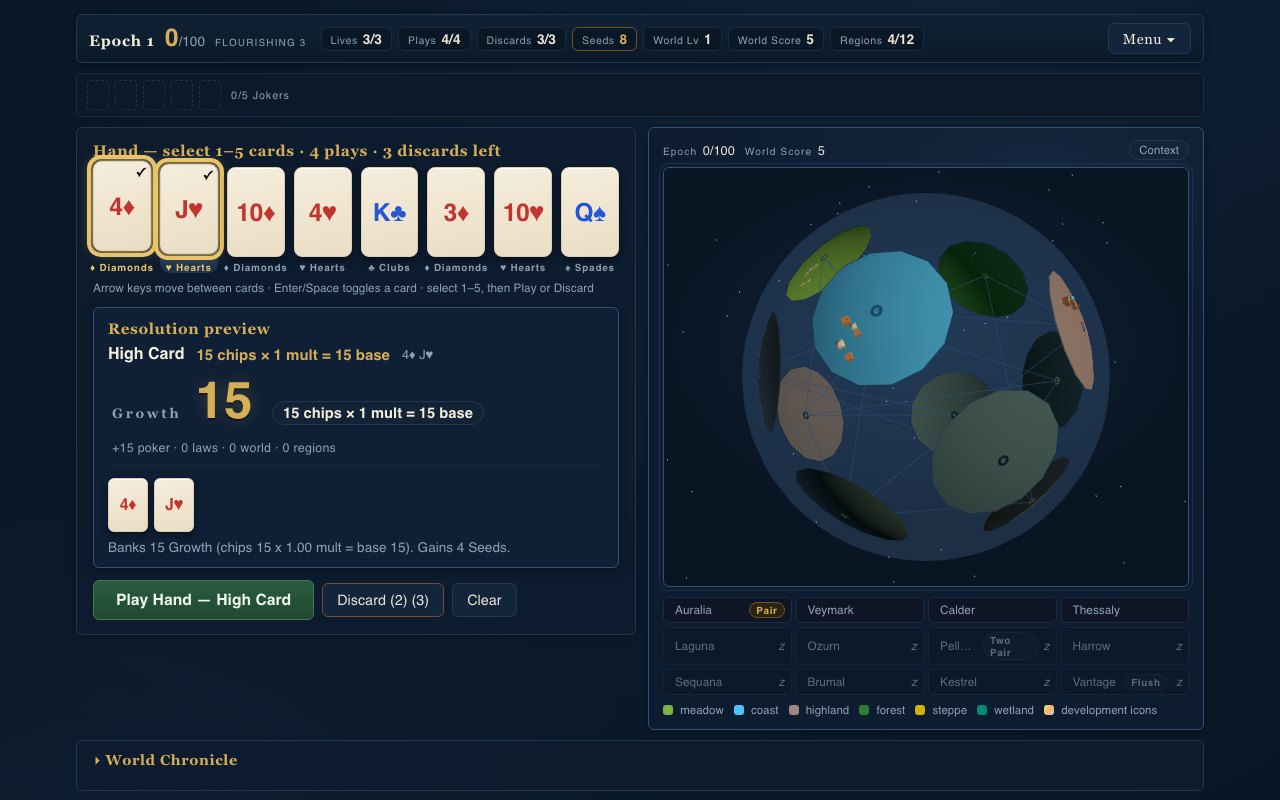
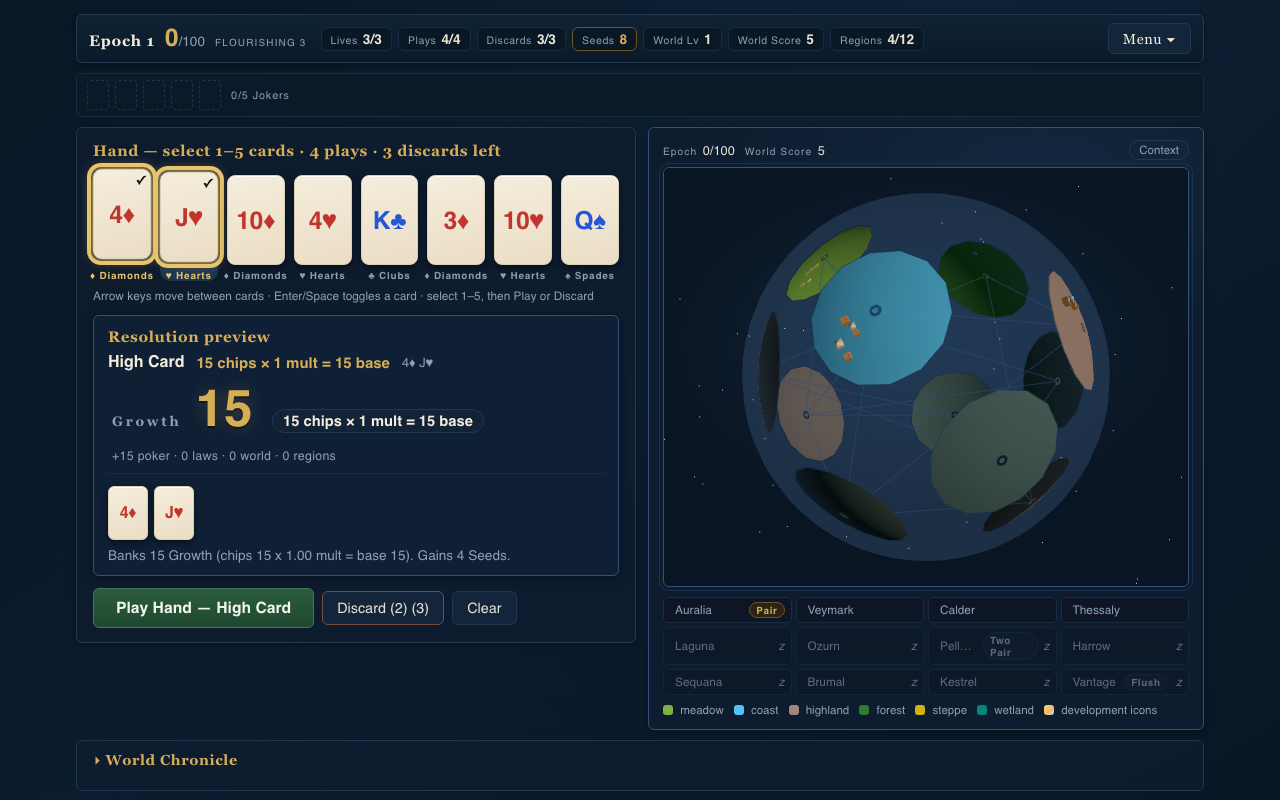
UI fix: headroom for the selected-card lift so it never clips the hand heading

diff --git a/src/styles.css b/src/styles.css
@@ -379,6 +379,8 @@ button.advance { border-color: var(--ocean); }
   flex-wrap: wrap;
   /* keep the 8-card hand on ONE row at desktop widths: cards flex down to
      ~46px before wrapping */
+  /* headroom for the selected-card lift so it never clips the heading */
+  padding-top: 8px;
 }
 .pcard-btn {
   background: none;
